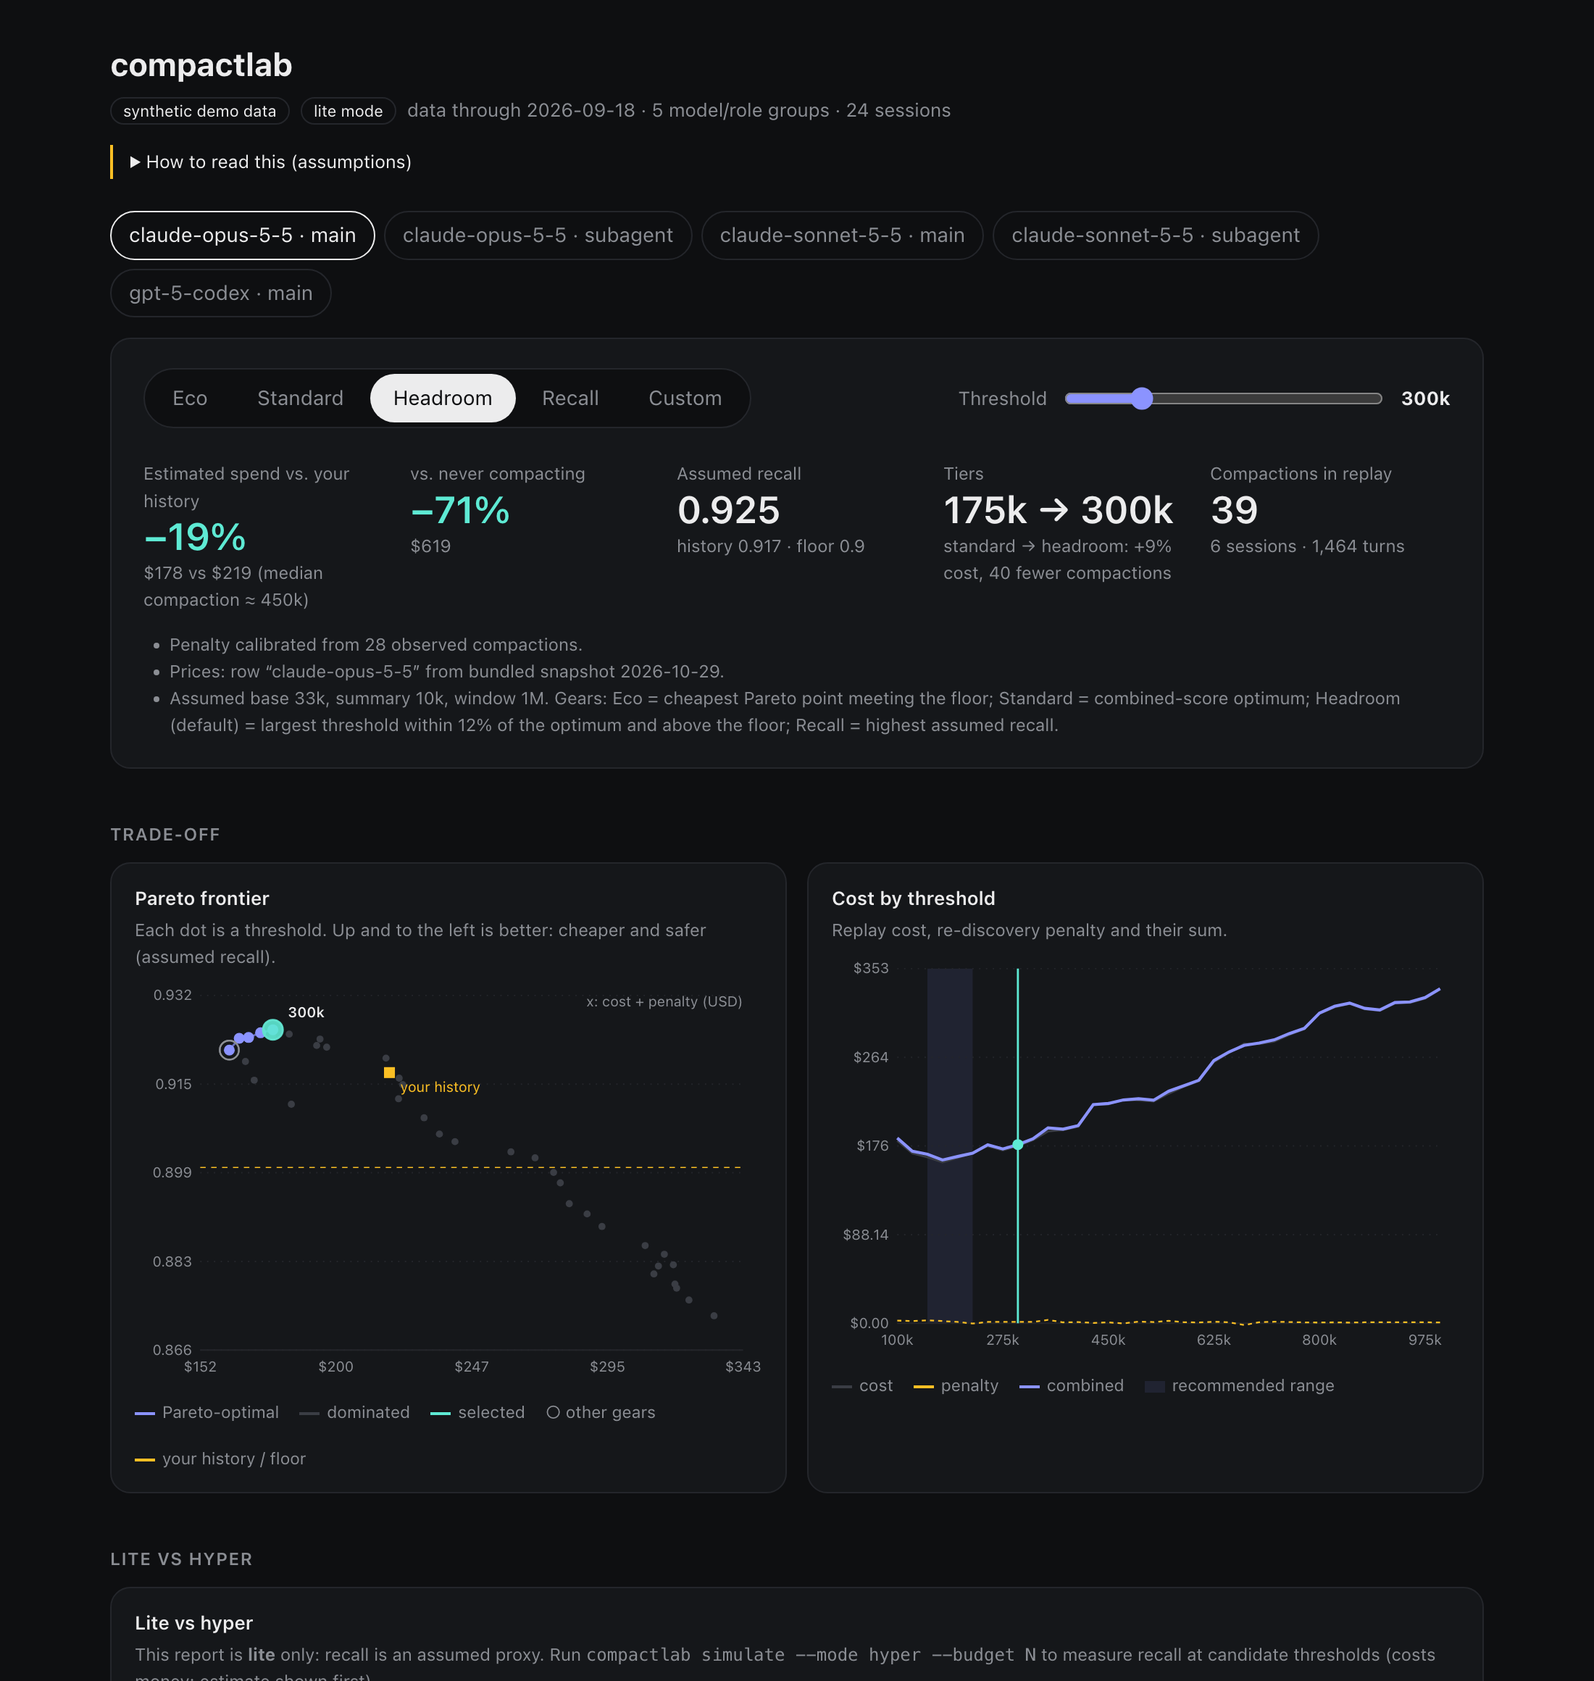
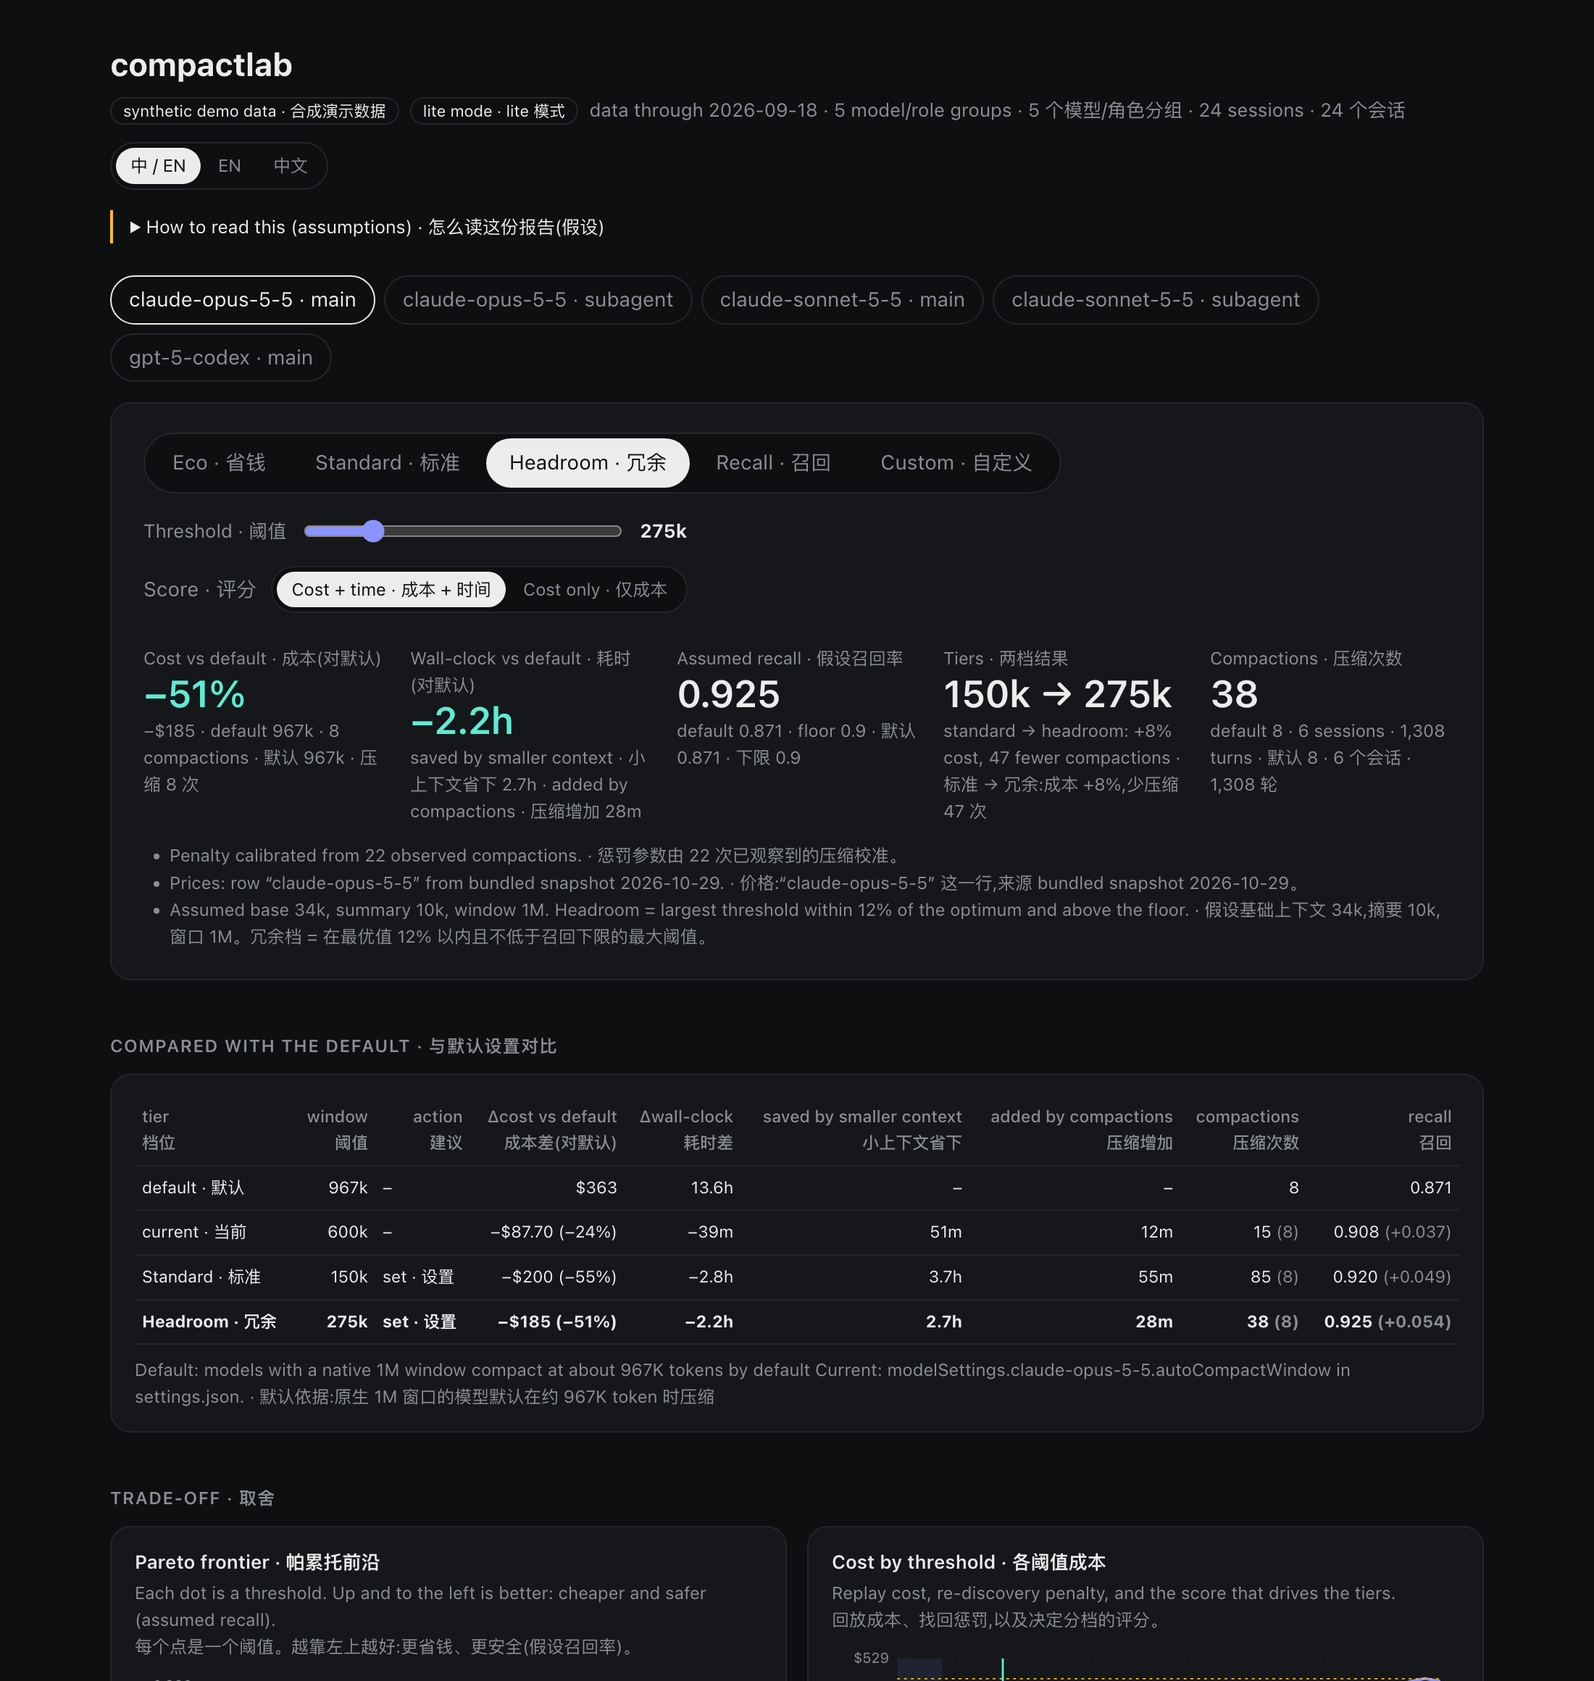
Docs, README samples and assets for time, baselines and bilingual output

diff --git a/src/compactlab/report/template.html b/src/compactlab/report/template.html
@@ -31,7 +31,7 @@ ul.n{margin:12px 0 0;padding-left:18px;font-size:12px;color:var(--mut)}
 .top{display:flex;justify-content:space-between;align-items:flex-start;gap:12px;flex-wrap:wrap}.seg.sm button{padding:3px 10px;font-size:12px}
 .zh{color:var(--mut)}.banner{margin-top:14px;padding:10px 14px;border-radius:10px;border:1px solid var(--acc2);color:var(--fg)}
 .ctlrow{display:flex;gap:10px;flex-wrap:wrap;align-items:center;margin-top:14px}
-tr.sel td{font-weight:650}td.act{text-align:left}
+tr.sel td{font-weight:650}td.act{text-align:left}#fCmp th{white-space:normal;vertical-align:bottom}#fCmp th,#fCmp td{padding:6px 5px;font-size:11.5px}
 </style></head><body><main>
 <div class="top"><div><h1>compactlab</h1><p class="sub mut" id="meta"></p></div>
 <div class="seg sm" role="group" aria-label="Language" id="langs"></div></div>

diff --git a/scripts/make_assets.py b/scripts/make_assets.py
@@ -49,7 +49,7 @@ def shot(browser: str, url: str, out: Path, w: int, h: int, scale: int = 2) -> N
 
 def demo(tmp: Path) -> tuple[str, dict]:
     out = subprocess.run(
-        [sys.executable, "-m", "compactlab.cli.main", "demo", "--out", str(tmp / "demo"), "--no-open"],
+        [sys.executable, "-m", "compactlab.cli.main", "demo", "--out", str(tmp / "demo"), "--no-open", "--lang", "en"],
         check=True, capture_output=True, text=True, cwd=ROOT,
     )  # fmt: skip
     text = out.stdout.replace(str(tmp / "demo"), "compactlab-demo")
@@ -57,8 +57,12 @@ def demo(tmp: Path) -> tuple[str, dict]:
 
 
 def terminal_svg(text: str) -> str:
-    lines = ["$ uvx compactlab demo", *[ln for ln in text.splitlines() if ln.strip()]]
-    lh, pad, w = 22, 20, 980
+    # keep the hero short: first model/role block plus the closing lines
+    blocks = text.split("\n\n")
+    first = [ln for ln in blocks[1].splitlines() if not ln.strip().startswith("· default")]
+    tail = [ln for ln in text.splitlines() if ln.startswith(("headroom is", "SYNTHETIC"))]
+    lines = ["$ uvx compactlab demo --lang en", blocks[0], *first, "  ...", *tail]
+    lh, pad, w = 22, 20, 1000
     h = pad * 2 + 30 + lh * len(lines)
     rows = []
     for i, ln in enumerate(lines):

diff --git a/src/compactlab/cli/main.py b/src/compactlab/cli/main.py
@@ -686,7 +686,7 @@ def cmd_demo(a: argparse.Namespace) -> int:
     ns = build_parser().parse_args(
         ["simulate", "--claude-root", str(out / "claude" / "projects"), "--codex-root", str(out / "codex" / "sessions"),
          "--since-days", "0", "--no-cache", "--offline-pricing", "--claude-settings", str(demo_settings),
-         "--codex-config", str(out / "codex" / "config.toml")]
+         "--codex-config", str(out / "codex" / "config.toml"), "--lang", a.lang]
     )  # fmt: skip
     res = run_analysis(ns)
     assert res is not None
@@ -709,6 +709,7 @@ def build_parser() -> argparse.ArgumentParser:
     s = sub.add_parser("demo", help="build and open a report from bundled synthetic data", formatter_class=fmt)
     s.add_argument("--out", default="compactlab-demo")
     s.add_argument("--no-open", action="store_true", help="do not open the report")
+    s.add_argument("--lang", choices=["both", "en", "zh"], default="both", help="summary language (default: both 中英)")
     s.set_defaults(f=cmd_demo)
 
     s = sub.add_parser("doctor", help="detect harnesses, log locations, config paths, versions")

diff --git a/README.md b/README.md
@@ -43,27 +43,49 @@ uvx compactlab apply --result result.json --claude-settings ~/.claude/settings.j
 
 ## What you get
 
-For each model and role, two results:
+For each model and role, two results, each compared with **the harness default** (what happens if you change
+nothing) and with **your current setting** when compactlab can read it:
 
-- **standard**: the threshold with the lowest replayed cost + re-discovery penalty that meets a recall floor.
+- **standard**: the threshold with the lowest score (replayed cost + re-discovery penalty + time) that meets a
+  recall floor.
 - **headroom** (default): the largest threshold within 12% of that optimum. You pay a little more and get fewer
-  lossy compactions. The tolerance is a flag (`--headroom`), and the extra cost and the drop in compactions are
-  printed.
+  lossy compactions. The tolerance is a flag (`--headroom`).
+- **no action needed**: shown instead of a number when the default never compacts in those sessions.
 
-Sample output (**synthetic demo data**, not a benchmark):
+Every result reports Δcost, Δwall-clock (time saved by smaller contexts minus time added by compactions and
+re-discovery, fitted from your own timestamps), compactions and recall against the default. Time enters the score
+at `--value-of-time` USD per hour (default 10; `--view cost` ranks by cost alone). Thin timing data is flagged.
+
+Sample output (**synthetic demo data**, not a benchmark; output is bilingual by default, `--lang en` shown):
 
 ```
-model                  role     sess  turns  standard  headroom   +cost  -compact  recall
-claude-opus-5-5        main        6   1464      175k      300k    9.4%        40   0.925
-claude-opus-5-5        subagent    3    134      200k      350k    4.1%         3   0.948
-claude-sonnet-5-5      main        6   1137      175k      250k    9.4%        24   0.923
-claude-sonnet-5-5      subagent    3    137      225k      375k   11.8%         1   0.945
-gpt-5-codex            main        6    737      175k      250k    9.2%        12   0.929
+claude-opus-5-5 · main · 6 sessions · 1308 turns · window 1000k
+  tier               window action                       Δcost vs default     Δtime   compactions           recall
+  default              967k -                                 $363 (base)         0             8            0.871
+  current              600k -                                 -$88 (-24%)     -0.6h     15 (vs 8)   0.908 (+0.037)
+  standard             150k set                              -$200 (-55%)     -2.8h     85 (vs 8)   0.920 (+0.049)
+  headroom             275k set                              -$185 (-51%)     -2.2h     38 (vs 8)   0.925 (+0.054)
+
+claude-opus-5-5 · subagent · 3 sessions · 143 turns · window 1000k
+  tier               window action                       Δcost vs default     Δtime   compactions           recall
+  default              967k -                                  $18 (base)         0             0            0.937
+  current              600k -                                   +$0 (+0%)       +0m      0 (vs 0)   0.937 (+0.000)
+  standard                - no action needed                            -         -             0            0.937
+  headroom                - no action needed                            -         -             0            0.937
+  · no action needed: the default never compacts in these sessions
+  · time estimate low-confidence (141 timed turns)
+
+gpt-5-codex · main · 6 sessions · 871 turns · window 400k
+  tier               window action                       Δcost vs default     Δtime   compactions           recall
+  default              360k -                                  $42 (base)         0            16            0.929
+  standard             225k set                                -$7 (-17%)       -1m    29 (vs 16)   0.930 (+0.001)
+  headroom             325k set                                 -$2 (-4%)       -2m    18 (vs 16)   0.930 (+0.001)
 ```
 
-The HTML report is one offline file. It has gear switching (Eco / Standard / Headroom / Recall / Custom), estimated
-spend against a replay of your own history, a Pareto frontier, cost curves, where your tokens sit by context size,
-and any session's real context curve next to the same session replayed at the chosen threshold.
+The HTML report is one offline file, in Chinese and English (switchable). It has gear switching (Eco / Standard /
+Headroom / Recall / Custom), a cost + time or cost-only view, the default/current comparison table, a Pareto
+frontier, cost and wall-clock curves, where your tokens sit by context size, and any session's real context curve
+next to the same session replayed at the chosen threshold.
 
 ## Two modes
 
@@ -98,7 +120,8 @@ flowchart LR
 
 Each session becomes the tokens added per turn. compactlab replays that growth for each threshold. It charges
 cache reads, cache writes (after a compaction, or after an idle gap longer than the cache TTL), output, a summarizer
-call per compaction, and the re-reads and corrections that tend to follow one. Details and formulas:
+call per compaction, and the re-reads and corrections that tend to follow one. It also adds up wall-clock time
+from latency curves fitted to your own timestamps. Details and formulas:
 [docs/METHODOLOGY.md](docs/METHODOLOGY.md). Background: [docs/WHY_THRESHOLDS.md](docs/WHY_THRESHOLDS.md).
 
 ## Supported harnesses
@@ -126,7 +149,8 @@ Neither harness lets subagents have their own threshold, so `apply` writes the m
 
 - Lite-mode recall is an **assumed** curve, not a measurement of any model. Deep mode measures recall on samples
   of compactlab's excerpts, not the full transcript the harness would summarize.
-- Replayed cost is for comparing thresholds, not a reconstruction of your invoice.
+- Replayed cost is for comparing thresholds, not a reconstruction of your invoice. Wall-clock estimates come from
+  log timestamps (response time minus the preceding input), a proxy that is flagged when data is thin.
 - The bundled prices are a dated public snapshot (models.dev). `compactlab pricing show` lists the source of every
   row; refresh or override them as needed.
 - Some log-format details (Codex fork replay, compaction events) are marked `assumed` in
@@ -142,6 +166,10 @@ allow-listed key, with a backup.
 so the default leaves headroom. Use `--tier standard` if you want the optimum.
 
 **Does it work without any history?** `compactlab demo` uses bundled synthetic sessions.
+
+**What is the baseline?** The harness default from its docs or source: about 967K tokens for Claude models with a
+native 1M window, 200K for Sonnet/Opus 4.6 without extended context, the context limit otherwise; 90% of the
+context window for Codex. Sources are in [`data/harness_defaults.json`](src/compactlab/data/harness_defaults.json).
 
 **Can I trust the recall numbers?** In lite mode, no. Treat them as a guard-rail you can configure. Deep mode
 gives sampled measurements with their own noise.

diff --git a/docs/METHODOLOGY.md b/docs/METHODOLOGY.md
@@ -32,10 +32,46 @@ with and without it.
 Recall proxy per turn: `rot(c) · (1 − (1 − r)·exp(−turns_since_compaction / H))` with retention `r = 0.9`,
 `H = 15`, and `rot` interpolated from `(0, 1.0) (100k, .98) (200k, .95) (400k, .90) (600k, .84) (1M, .75)`.
 
+## Time
+
+compactlab fits wall-clock behaviour from your own timestamps, per model and role (`sim/timing.py`):
+
+- **Turn latency vs context**: latency = response timestamp − last user/tool-result timestamp before it (≤ 600 s).
+  Samples are binned by 50k tokens of context; bin medians (≥ 5 samples) are made monotone non-decreasing and
+  interpolated. Confidence: `ok` with ≥ 200 samples in ≥ 3 bins, `low` otherwise, `prior` (8 s + 4 s per 100k)
+  with no usable timestamps.
+- **Compaction latency vs size**: compaction timestamp − last input before it (≤ 900 s), fitted as `a + b·pre_tokens`
+  (a, b ≥ 0) with ≥ 5 samples (`ok` with ≥ 20), else the prior 15 s + 0.12 s per 1k tokens.
+- **Re-discovery time**: (re-discovered tokens ÷ median tool-result size + correction turns) × median turn latency.
+
+Per threshold the replay sums turn time at the simulated context, compaction time and re-discovery time. Versus the
+default this splits into *time saved by smaller contexts* and *time added by compactions and re-discovery*.
+Time enters the score as `time_hours × value_of_time` (default $10/h, a modest weight: you are not idle for all of
+an agent's run). `--value-of-time 0` or `--view cost` gives the cost-only ranking; both views are in the result.
+
+Limits: for Claude Code the response timestamp is the first content block, so long generations are undercounted;
+timestamps include tool and network time; latency depends on load. Treat time as a secondary signal.
+
+## Baselines
+
+Every result is compared with:
+
+- **default**: the harness's own compaction point if you change nothing (`data/harness_defaults.json`). Claude Code:
+  about 967K for models with a native 1M window, 200K for Sonnet/Opus 4.6 without extended context, else the
+  context limit (docs: code.claude.com model-config, "Default auto-compact thresholds"). Codex: 90% of the context
+  window, and a configured `model_auto_compact_token_limit` is clamped to that (openai/codex `ModelInfo`).
+  Codex's window comes from `model_context_window` in the logs when present.
+- **current**: the value in your config, read-only (`modelSettings.<model>.autoCompactWindow`, then top-level
+  `autoCompactWindow`, in `~/.claude/settings.json`; top-level `model_auto_compact_token_limit` in
+  `~/.codex/config.toml`). Project-level settings, env vars and CLI flags can override these and are not read.
+
+If the default never compacts in a group's sessions, the result is **no action needed**; a tier at or above the
+default is **keep default**. `apply` skips both.
+
 ## Selection and tiers
 
-- **standard**: among thresholds with recall ≥ floor (default 0.90), the largest whose combined cost + penalty is
-  within 2% of the minimum.
+- **standard**: among thresholds with recall ≥ floor (default 0.90), the largest whose score (cost + penalty +
+  time, or cost + penalty in the cost view) is within 2% of the minimum.
 - **headroom** (default): the largest threshold whose combined score is within `--headroom` (default 12%) of the
   feasible minimum, recall ≥ floor, rounded to the grid step, ≤ `--headroom-cap` and the model window, ≥ standard.
   The report shows its extra cost and how many fewer compactions it implies.

diff --git a/README.zh-CN.md b/README.zh-CN.md
@@ -15,6 +15,30 @@ Claude Code 和 Codex 会在上下文达到某个 token 阈值时压缩对话。
 - **standard(标准)**:满足召回下限、回放成本加"找回惩罚"最低的阈值。
 - **headroom(冗余,默认)**:在最优值 12% 以内的最大阈值。多花一点钱,换更少的有损压缩。容差可调(`--headroom`),额外成本和少了多少次压缩都会写出来。
 
+## 与默认设置对比
+
+每个模型、每种角色的两档结果都会和 **harness 默认值**(什么都不改时的压缩点)对比,能读到配置时也和**你当前的设置**对比:成本差、耗时差(更小上下文省下的时间减去压缩和找回增加的时间,用你自己的时间戳拟合)、压缩次数、召回率。默认设置在某组会话里从未触发压缩时,直接显示"无需调整",不给数字。时间按 `--value-of-time`(默认每小时 10 美元)计入评分,`--view cost` 只看成本;时间数据太少会标出来。命令行输出和 HTML 报告默认中英双语,`--lang zh|en` 可切换。
+
+示例输出(**合成演示数据**,不是基准测试,`--lang zh`):
+
+```
+claude-opus-5-5 · main · 6 sessions · 1308 turns · window 1000k
+  档位                 阈值 建议                           成本差(对默认)    时间差      压缩次数             召回
+  默认                 967k -                                 $363 (base)         0             8            0.871
+  当前                 600k -                                 -$88 (-24%)     -0.6h     15 (vs 8)   0.908 (+0.037)
+  standard             150k 设置                             -$200 (-55%)     -2.8h     85 (vs 8)   0.920 (+0.049)
+  headroom             275k 设置                             -$185 (-51%)     -2.2h     38 (vs 8)   0.925 (+0.054)
+
+claude-opus-5-5 · subagent · 3 sessions · 143 turns · window 1000k
+  档位                 阈值 建议                           成本差(对默认)    时间差      压缩次数             召回
+  默认                 967k -                                  $18 (base)         0             0            0.937
+  当前                 600k -                                   +$0 (+0%)       +0m      0 (vs 0)   0.937 (+0.000)
+  standard                - 无需调整                                    -         -             0            0.937
+  headroom                - 无需调整                                    -         -             0            0.937
+  · 无需调整:默认设置在这些会话里从未触发压缩
+  · 时间估计置信度低(仅 141 个可计时轮次)
+```
+
 ## 两种模式
 
 - **lite(默认)**:只用日志和价格表,离线、零成本:回放模拟、成本模型、找回惩罚、摘要事实核查启发式。

diff --git a/CHANGELOG.md b/CHANGELOG.md
@@ -5,6 +5,16 @@ versioning: [SemVer](https://semver.org/).
 
 ## [Unreleased]
 
+### Added
+- Time dimension: turn-latency and compaction-latency fits from log timestamps, wall-clock per threshold
+  (saved by smaller contexts vs added by compactions and re-discovery), `--value-of-time`, cost+time and cost views.
+- Baselines: every tier compared with the harness default (`data/harness_defaults.json`, with sources) and with the
+  current configured value; "no action needed" / "keep default"; `apply` skips those.
+- Bilingual output by default: CLI summary and HTML report in Chinese and English (`--lang`, report switch).
+
+### Changed
+- Renamed the opt-in mode `hyper` to `deep`.
+
 ## [0.1.0] - unreleased
 
 ### Added

diff --git a/docs/SAFETY.md b/docs/SAFETY.md
@@ -1,5 +1,11 @@
 # Safety: apply, revert, pre-authorization
 
+## Reading config
+
+`simulate`, `report` and `retune` read your current threshold from `~/.claude/settings.json` and
+`~/.codex/config.toml` (or `--claude-settings` / `--codex-config`) to compare against it. This is read-only; pass
+`--no-current` to skip it.
+
 ## Defaults
 
 - `compactlab apply` is a **dry-run**: it prints the planned changes and a unified diff and writes nothing.
